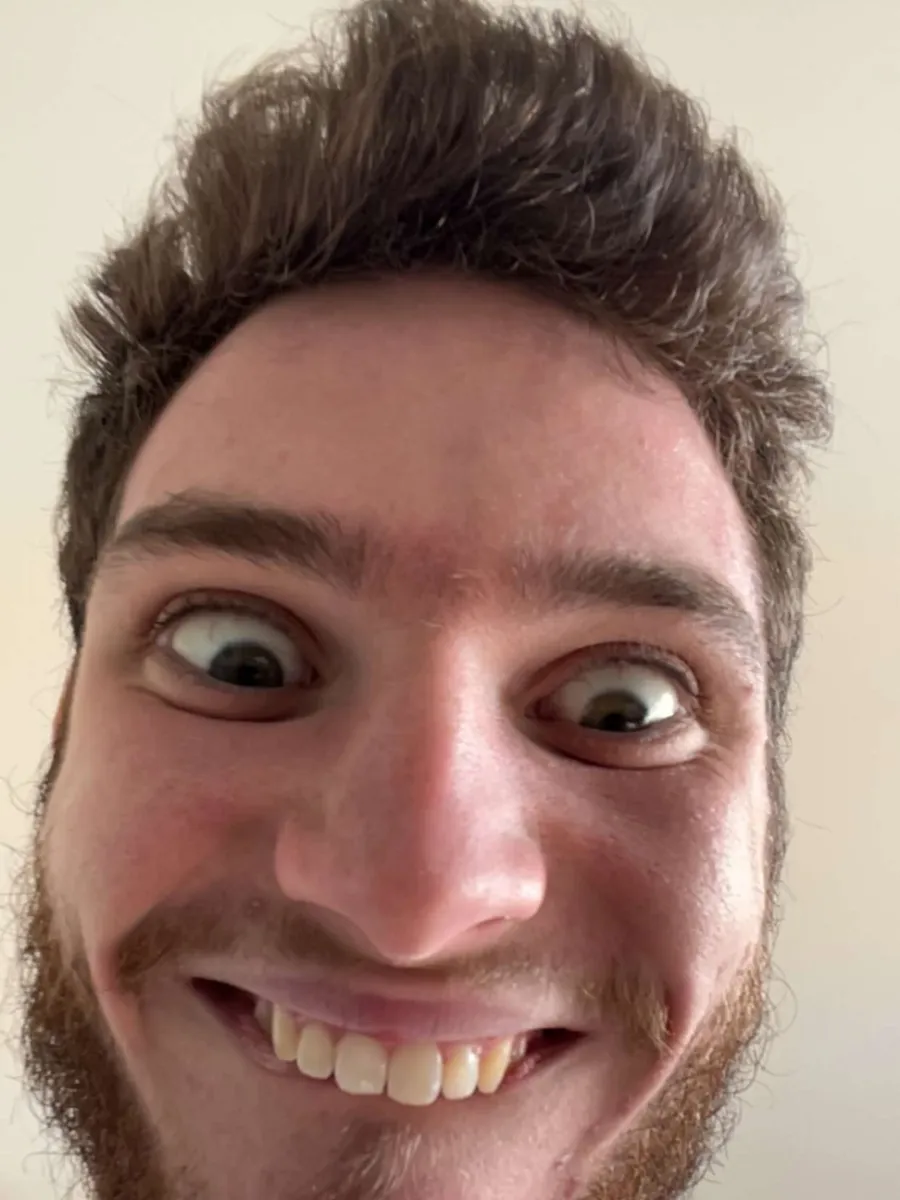
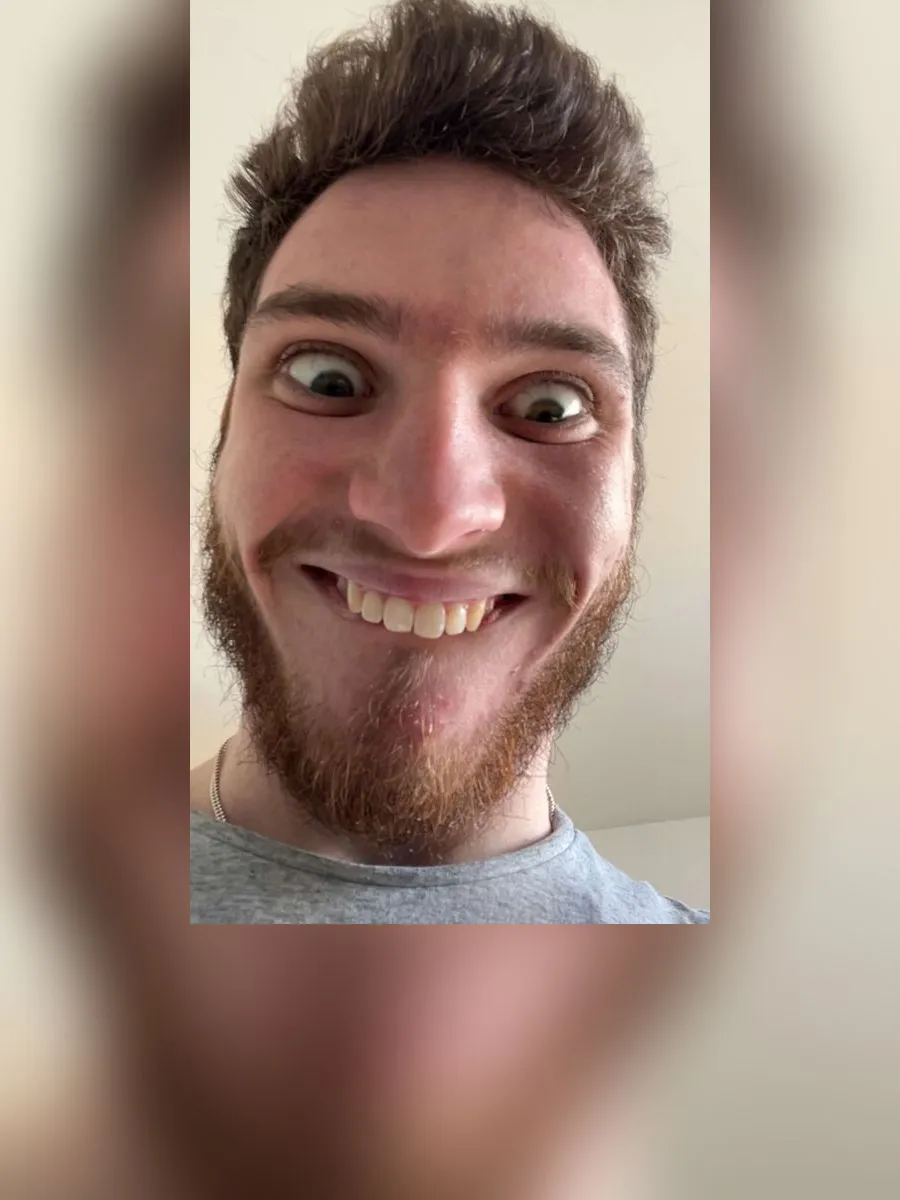
Passe la face B d'Alexandre en Full Dents
Le bandeau du nom mange le bas de la photo, et sur un gros plan aussi
serre le sourire tombait dessous — le surnom parlait de dents qu'on ne
voyait pas. Le portrait est reduit et pose en haut, sur un fond tire de
la photo elle-meme et flou, pour que la bouche remonte dans la partie
visible.

diff --git a/src/lib/faceid.ts b/src/lib/faceid.ts
@@ -185,7 +185,7 @@ export const ART: Record<string, ArtFaceId> = {
 
   // Alexandre
   'fid-alexandre-a': { surnom: '360p', note: 73, stats: [69, 75, 73, 84, 14] },
-  'fid-alexandre-b': { surnom: 'Yeux Révulsés', note: 55, stats: [52, 45, 50, 86, 91] },
+  'fid-alexandre-b': { surnom: 'Full Dents', note: 55, stats: [52, 45, 50, 86, 91] },
 
   // Elias
   'fid-elias-a': { surnom: 'Dormeur', note: 79, stats: [76, 82, 74, 63, 24] },
